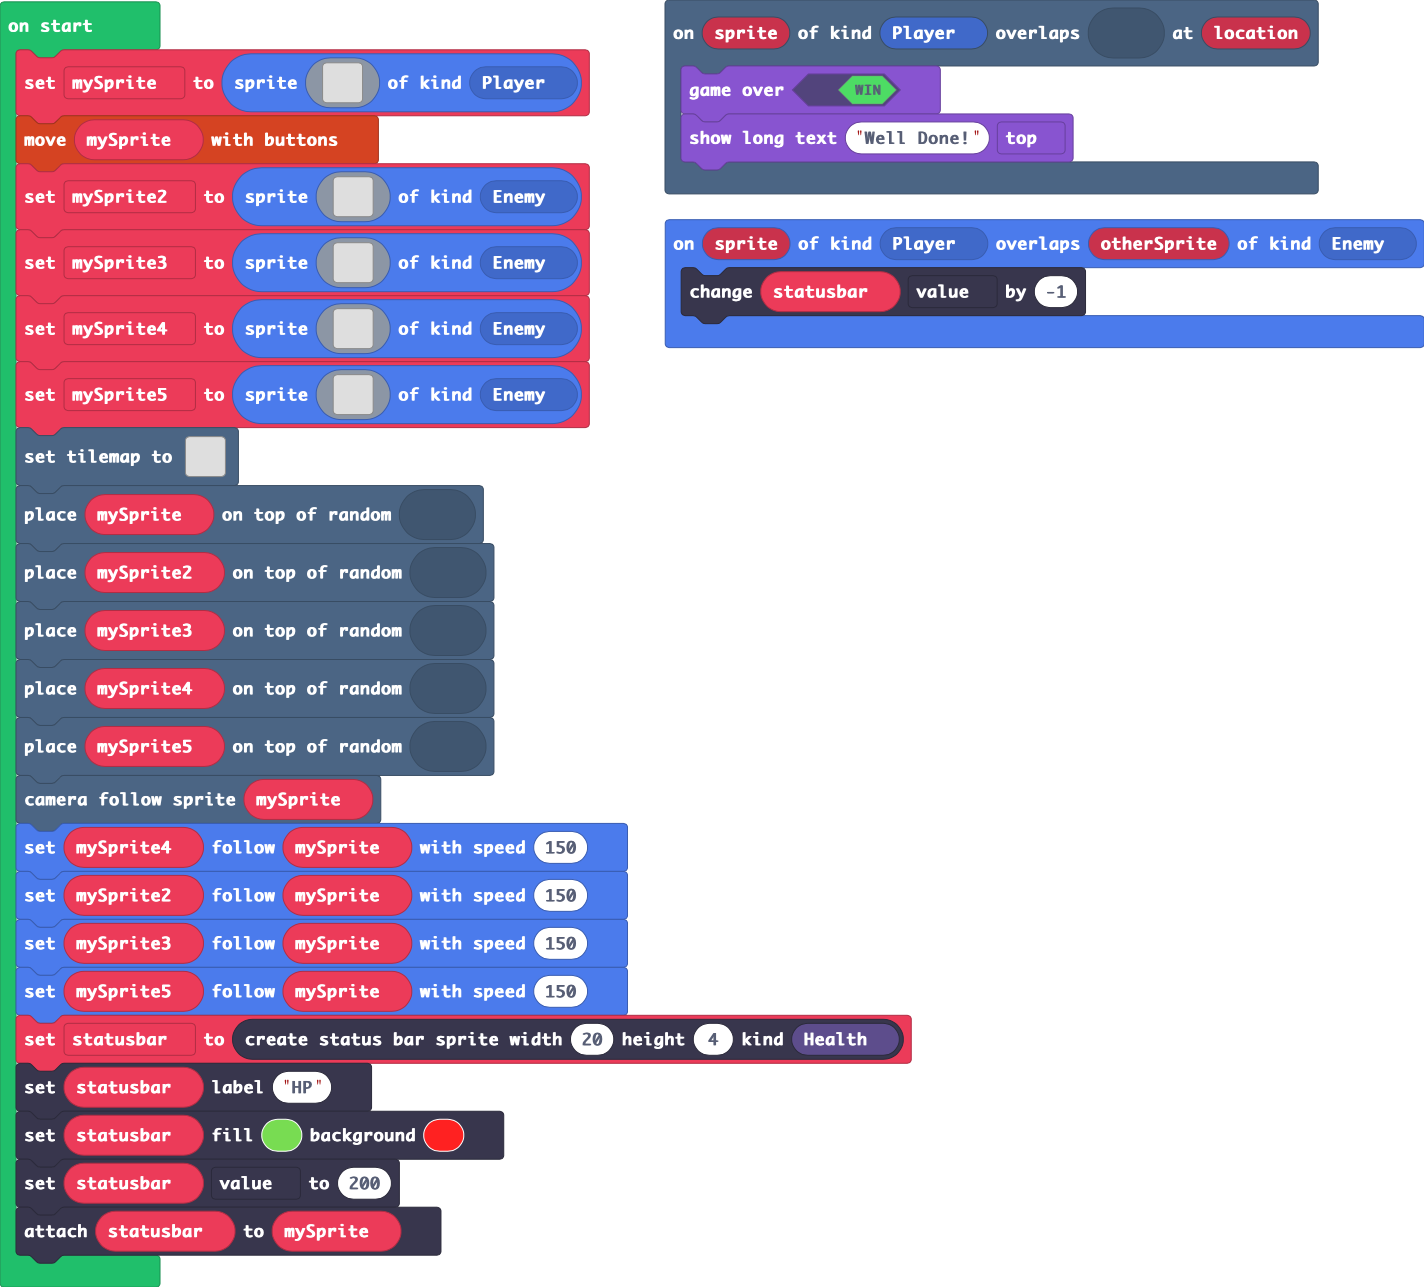
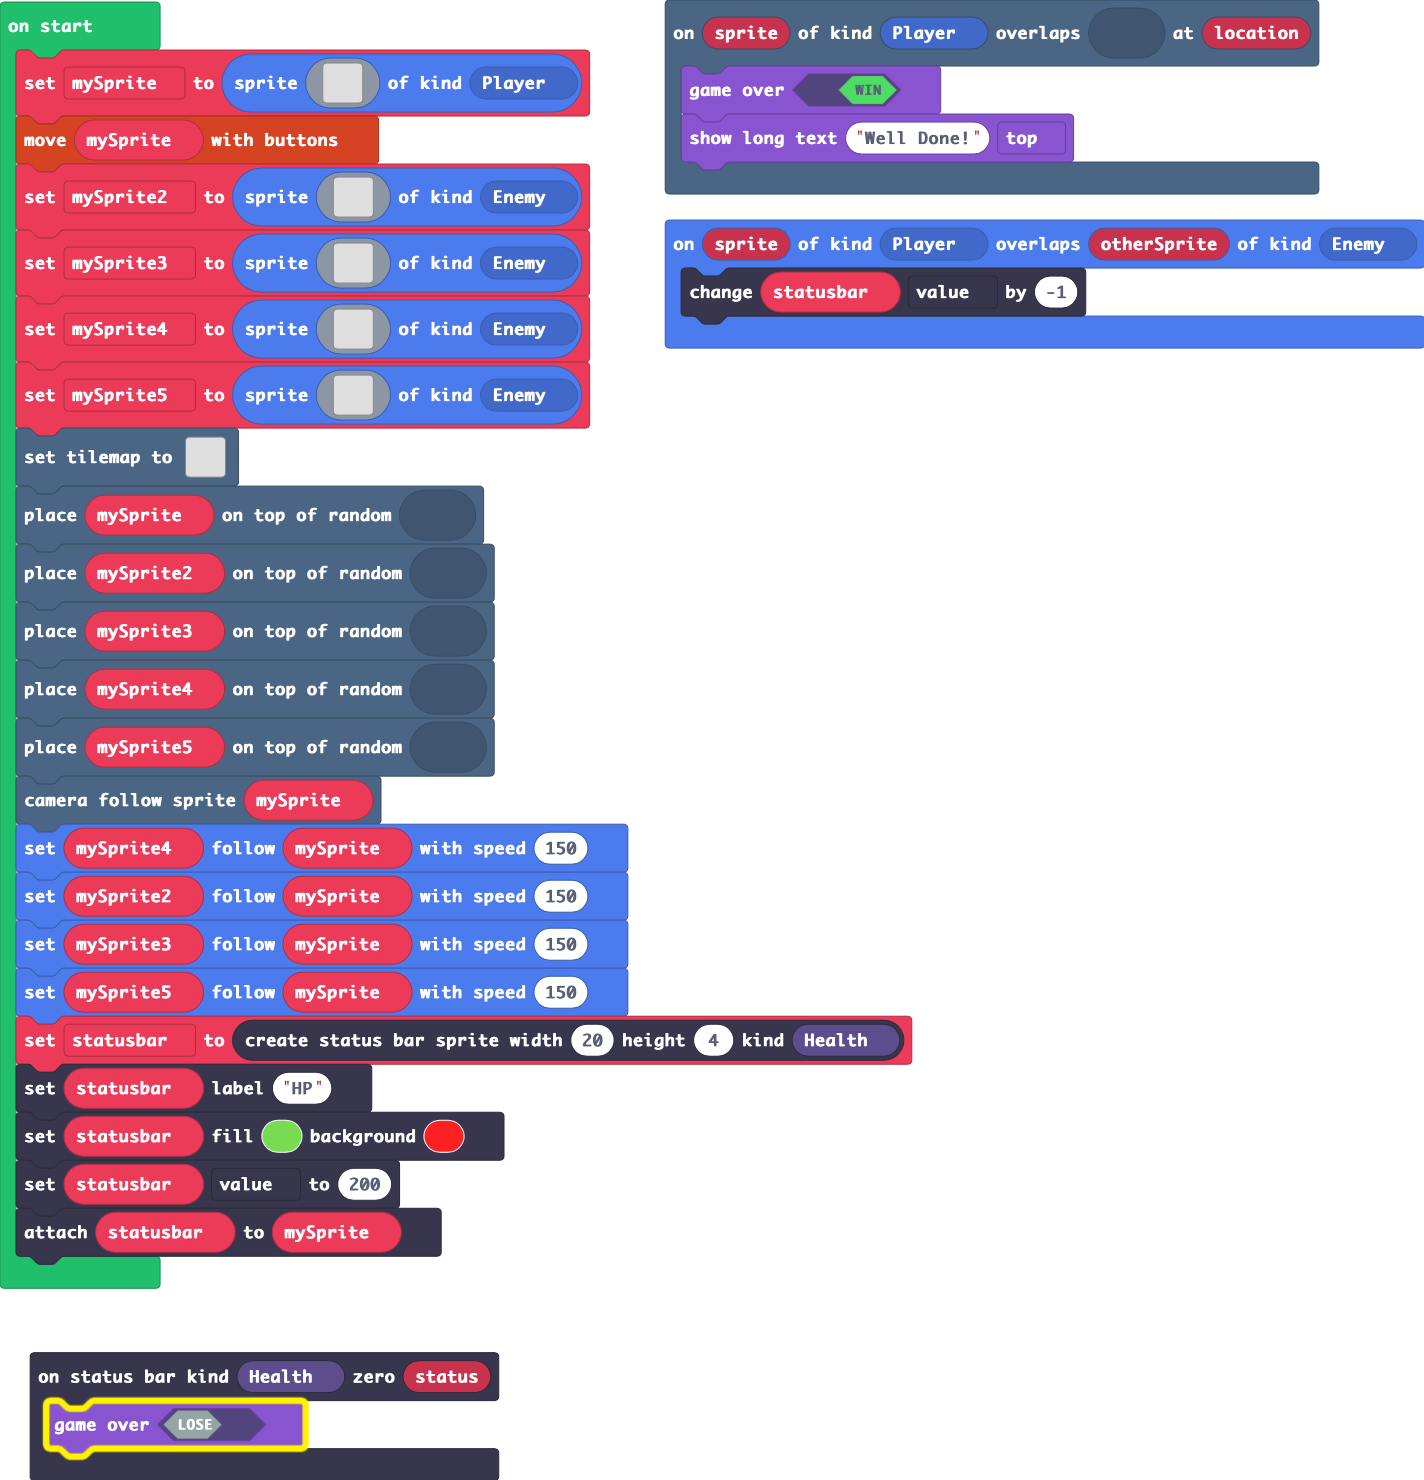
Update main.blocks, main.ts

diff --git a/main.ts b/main.ts
@@ -1,3 +1,6 @@
+statusbars.onZero(StatusBarKind.Health, function (status) {
+    game.over(false)
+})
 scene.onOverlapTile(SpriteKind.Player, sprites.dungeon.collectibleRedCrystal, function (sprite, location) {
     game.over(true)
     game.showLongText("Well Done!", DialogLayout.Top)
